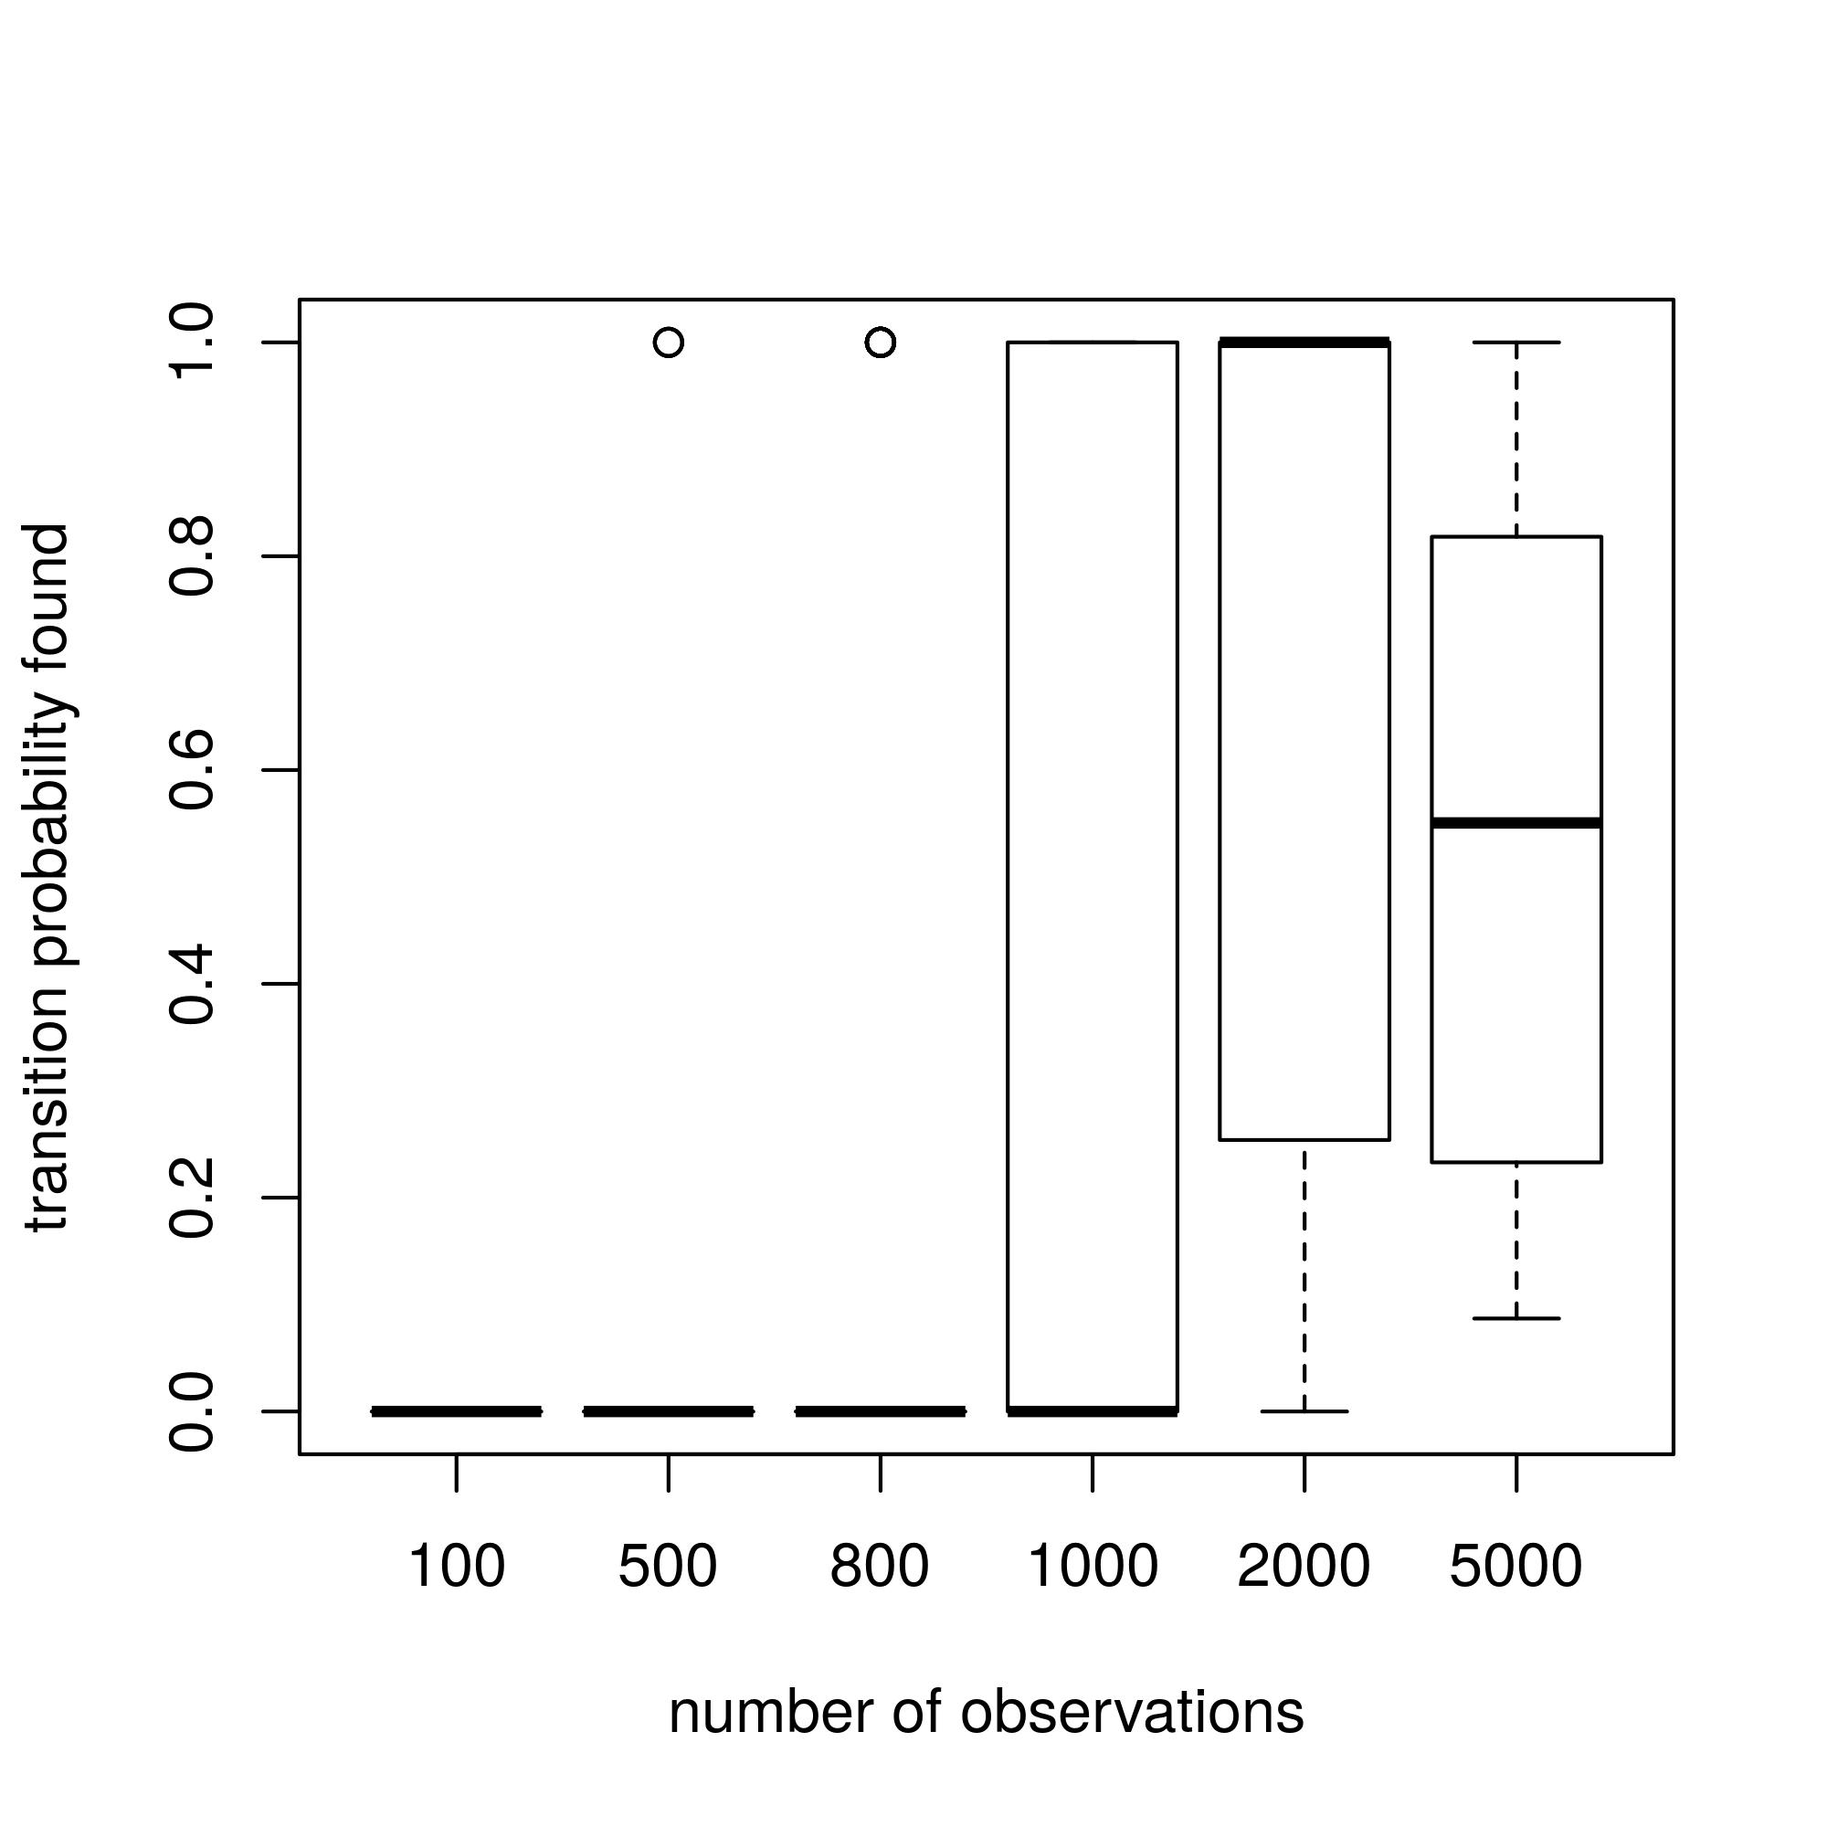
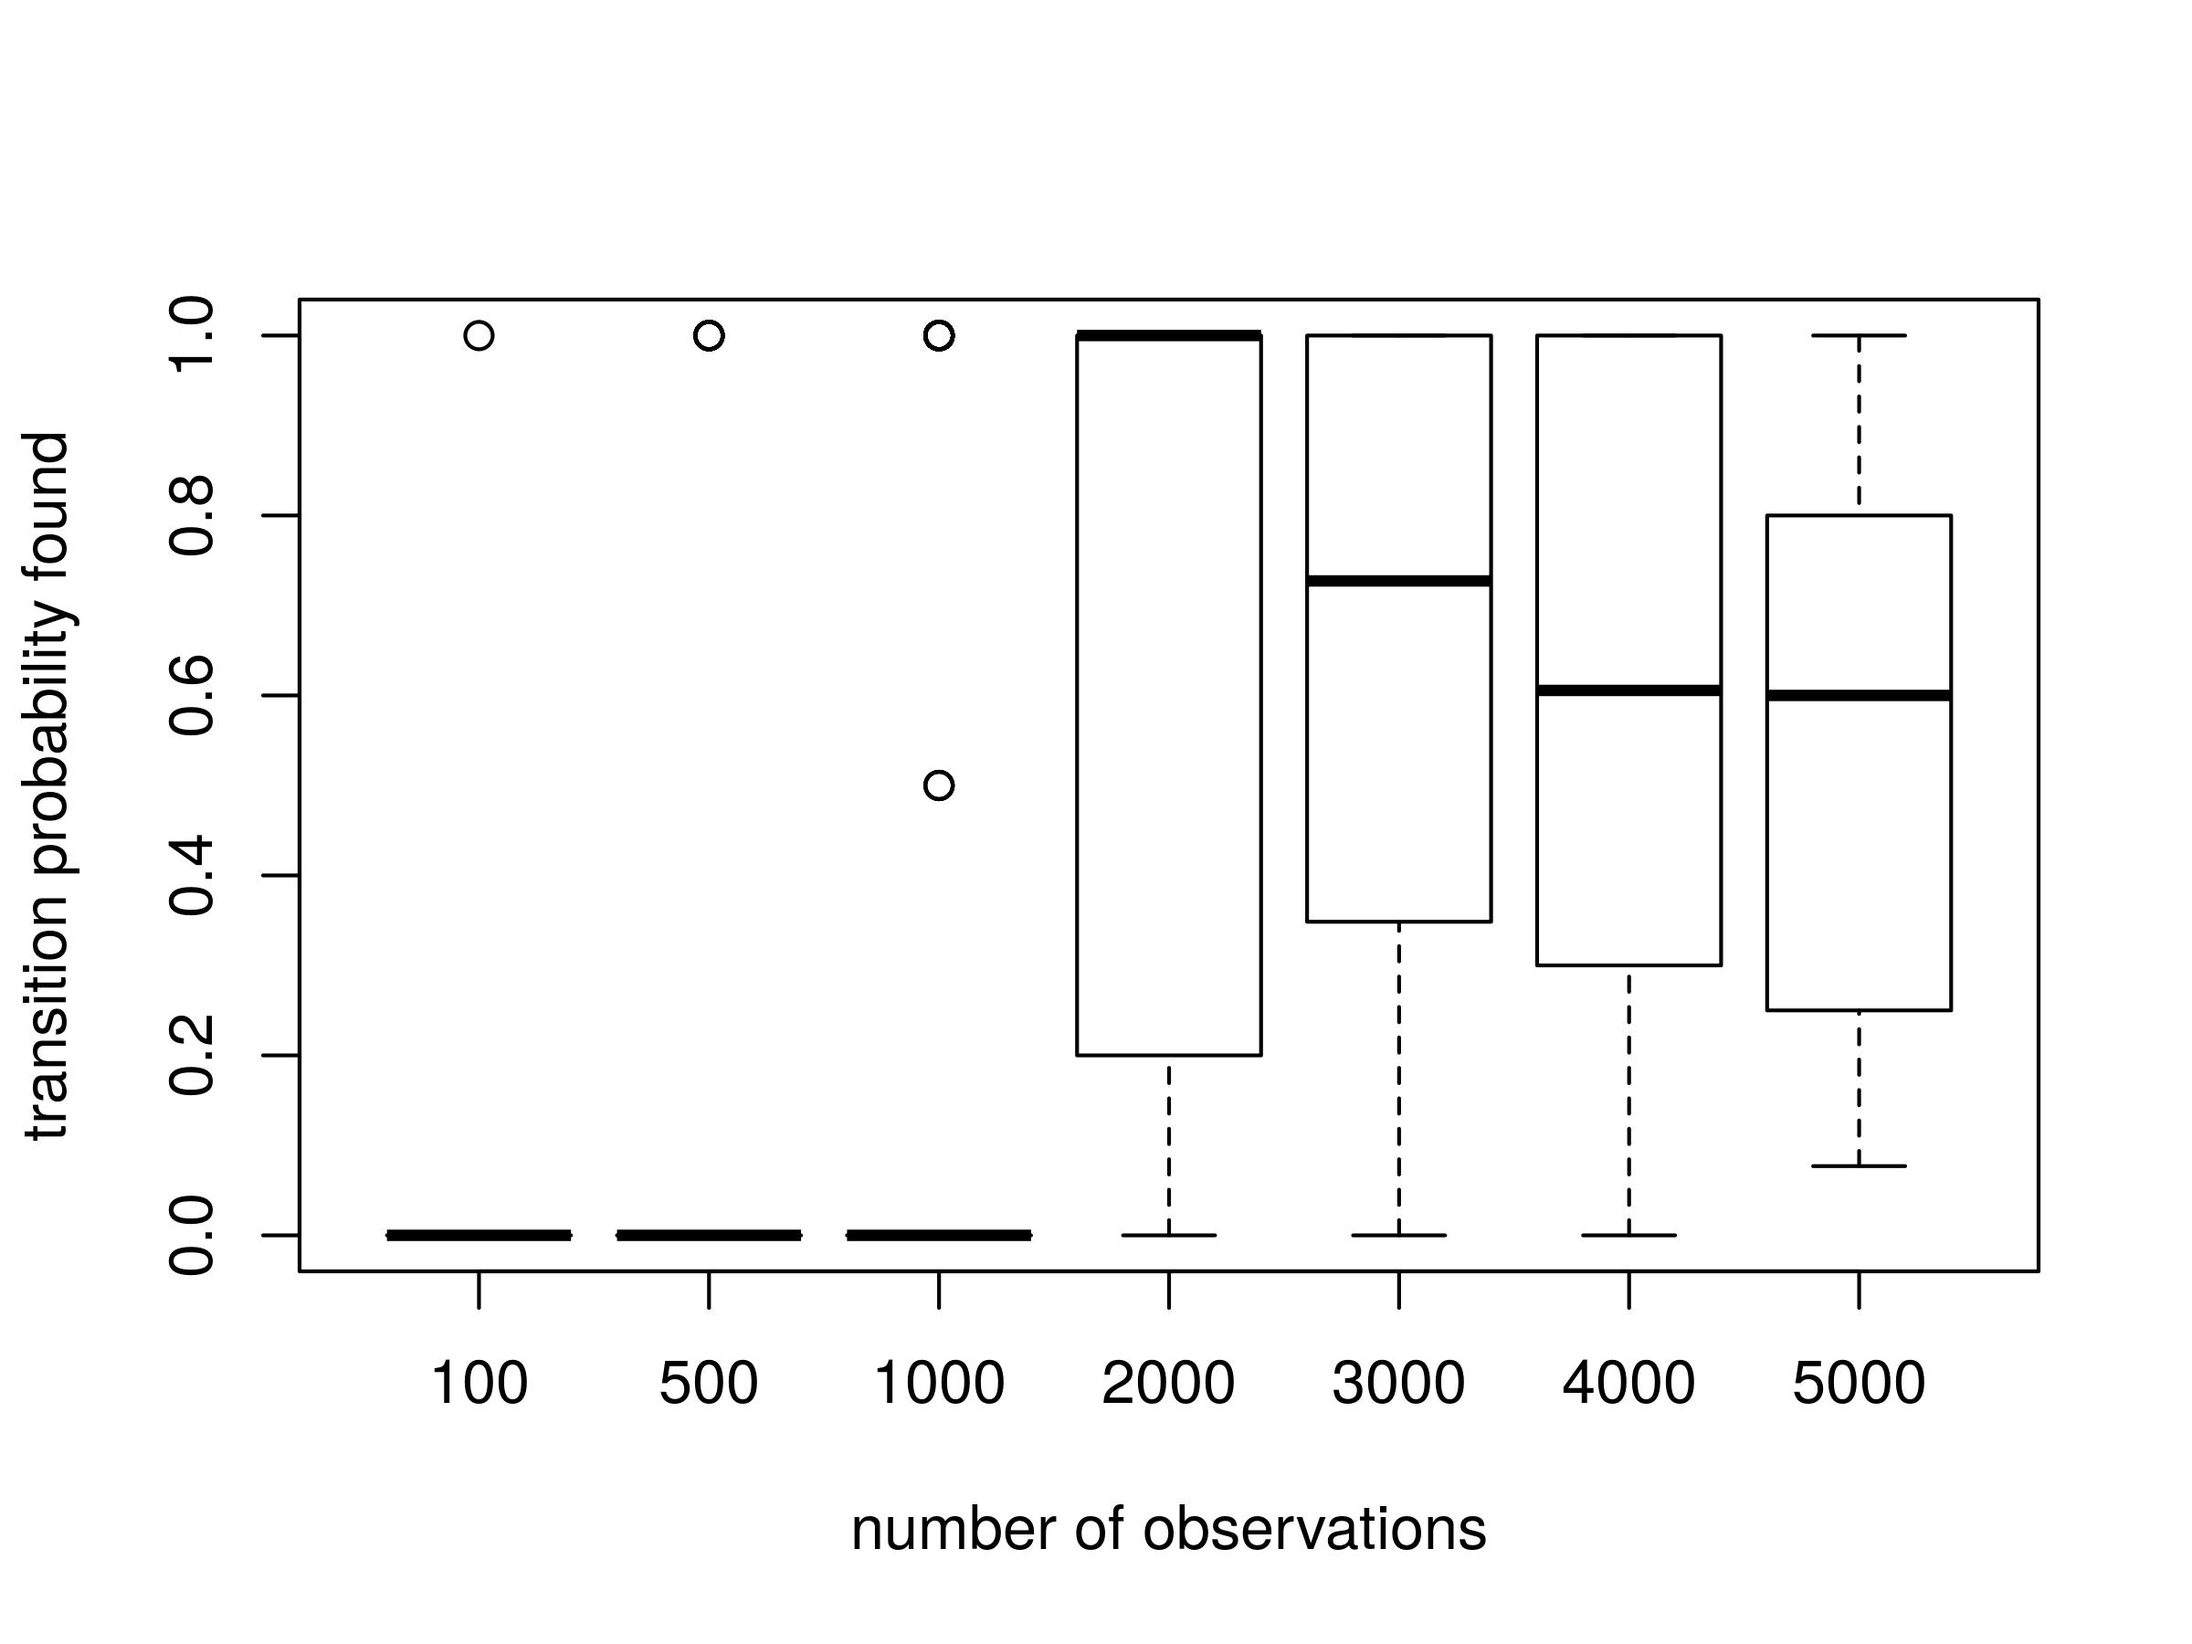
mode img

diff --git a/417/term_project/417course_project.html b/417/term_project/417course_project.html
@@ -6,7 +6,7 @@
 		</TITLE>
 		<style>
 		body {
-			margin: 5% 25%;
+			margin: 5% 20%;
 			font-size: 16pt;
 		}
 		p.abstract {
@@ -29,17 +29,16 @@
 		td{
 			min-width: 100px;
 		}
+		img.small{
+			width:38%;
+			height:38%;
+			margin-right:-6%;
+			float:right;
+		}
 		</style>
 		<head>
 		<script type="text/x-mathjax-config">
 		  MathJax.Hub.Config({tex2jax: {inlineMath: [['$','$'], ['\\(','\\)']]}});
-		  // MathJax.Hub.Register.StartupHook("AsciiMath Jax Config",function () {
-		  //   var AM = MathJax.InputJax.AsciiMath.AM;
-		  //   AM.symbols.push(
-		  //     {input:"mathbi", tag:"mstyle", atname:"mathvariant", atval:"bold-italic",
-		  //      output:"mathbi", tex:null, ttype:AM.TOKEN.UNARY}
-		  //   );
-		  // });
 		  MathJax.Hub.Config({ TeX: { equationNumbers: {autoNumber: "AMS"} } });
 		</script>
 		<script type="text/javascript"
@@ -92,11 +91,11 @@
 </ol>
 
 <a name="1"></a><h2>Introduction</h2>
-<p>To track objects in an environmnet partially monitored by cameras, an intelligent surveillance system need to know how to deal with targets transiting through the blind regions between two spatially adjacent cameras. Such system would be able to continuously track targets and to generate complete target activity records. </p>
+<p>In an environmnet partially monitored by cameras, an intelligent surveillance system may  benefit itself by knowing how to track targets transiting through the blind regions between two spatially adjacent cameras. Such system may allow continuous tracking of targets and generation of complete activity records. </p>
 
-<p>Past research has been done on single camera tracking and matching tracks in overlapping camera views. Some methods have been proposed to track single object through multiple camera views. Notably, Javed et al suggest to correspond the individial tracks of a target using feature matching by maximizing the posterior probability of the spatio-temporal and color apparance of the target. <a href="#r2">[2]</a> However, color is not guaranteed to be always reliable to match targets across multiple cameras.</p>
+<p>Makis et al at Kingston University have put a considable effort on solving single camera tracking and matching tracks in overlapping camera views. Meanwhile, some methods have been proposed by other researchsers to track single object through multiple camera views. Notably, Javed et al suggest to correspond the individial tracks of a target using feature matching by maximizing the posterior probability of the spatio-temporal and color apparance of the target. <a href="#r2">[2]</a> However, color is not guaranteed to be always reliable to match targets across multiple cameras.</p>
 
-<p> An alternative approach is to find a model of the environment and of the camera connectivity, enabling the system to predict the bahavior its targets. This allows one camera to "handover" the track to the next camera as the target move across the two, and thus avoids the need of establishing any correspondence. This model can carry spacial (topology) and temporal (time taken for targets to move between views) information of the network.
+<p> An alternative approach is to learn and build a model of the environment and of the camera connectivity, enabling the system to predict the bahavior its targets. This allows one camera to "handover" the track to the next camera as the target move across the two, and thus avoids the need of establishing any correspondence. This model can carry spacial (topology) and temporal (time taken for targets to move between views) information of the network.
 </p>
 
 <p>The topology of the camera can be determined by using calibrated cameras, whose transformation function of pixel coordinates into 3D coordinates is already defined. If the coordinate system in which calibration is done is common to all the cameras, a geometric analysis of each camera views would then allows spatial adjacency to be established. However, in a large network of cameras, it would be preferable if the system can calibrate itself automatically. Furthermore, a common coordinate system might not be necessary since establishing spatial adjacency requires simply the knowledge of the cameras position relative to each other.</p> 
@@ -109,7 +108,7 @@
 <p>Each camera view has a set of zones describing where targets enter or leave. These entry/exit zones can be represented as nodes in a network. Each edge between two nodes denote an transition which is either visibile or invisible to the cameras. Figure 1 shows an exmples of such network with two zones. </p> 
 
 <figure>
-	<img src="graphmodel.png" alt="Tempo-topographical model">
+	<img src="graphmodel.png" alt="< Picture unable to loaded :( >">
 	<figcaption><b>Figure 1</b> The network showing entry zone $i$ and exit zone $j$.</figcaption>
 </figure> 
 
@@ -192,60 +191,43 @@ However, if the most popular transition time is strictly negative, the following
 <a name="41"></a><h3>Design</h3>
 <p>We construct a compter simulated environment with two cameras. For simplicity, the entry/exit zones, their probability distribution and parameters are fixed, and all targets start from one zone and move to the others in a random walk fashion.</p>
 <figure>
-	<img src="exp1.png" alt="Computer simulated setting">
+	<img src="exp1.png" alt="< Picture unable to loaded :( >">
 	<figcaption><b>Figure 2</b> The simulated setting showing the viewfield of the two cameras and their entry/exit zones. </figcaption>
 </figure>
-<p>During the simulation, targets are generated with a random entering time and a position sampled from the dirtibution at zone 1. Then, they move to the next according to the transition probabilities and a speed drawn from a fixed distribution. In the experiment, $\alpha_{12}$ is set to be much larger than $\alpha_{13}$, and result are gathered to estimate the chance for Network calibration to find link 3-4 after observing a sample size of 100, 500, 800, 1000, 2000 and 5000 targets.</p> 
+<p>During the simulation, targets are generated with a random entering time and a position sampled from the dirtibution at zone 1. Then, they move to the next according to the transition probabilities and a speed drawn from a fixed distribution. In the experiment, $\alpha_{12}$ is set to be much larger than $\alpha_{13}$, and result are gathered to estimate the chance for Network calibration to find link 3-4 after observing a sample size of 100, 500, 1000, 2000, 3000, 4000 and 5000 targets.</p> 
 <p>Since the generation of signals is not ordered by time, we do not run Network Calibration at the same time as we gather data, unlike how it was originally designed.</p>
 
 <a name="42"></a><h3>Result</h3>
-We fixed the transition probabilities $\alpha_{12} = 0.99$, $\alpha_{13} = 0.01$ and $\alpha_{34} = 1.0$, and the distance between zone 1 and 3 very small compared to the distance between the other zones. We run the simuation 100 times for each sample size. For each simulation, we gather the sam amount of data to learn the entry/exit zones.  
+We fixed the transition probabilities $\alpha_{12} = 0.99$, $\alpha_{13} = 0.01$ and $\alpha_{34} = 1.0$, and the distance between zone 1 and 3 very small compared to the distance between the other zones. We run the simuation 300 times for each sample size. For each simulation, we gather the sam amount of data to learn the entry/exit zones.  
 <figure>
-	<img src="exp1-signalVSnum.jpeg" alt="Number of observation v.s. detected pairs of signals at link 1-3", style="width:70%; height:70%;">
+	<img src="exp1-signalVSnum.jpeg" alt="< Picture unable to loaded :( >", style="width:70%; height:70%;">
 	<figcaption><b>Figure 3</b> Number of observation v.s. detected pairs of signals at link 1-3, showing that the chance of detecting such signals is higher as there are more observations. The tickness of the bars represents the amount of transition probabilities found for link 1-3. </figcaption>
 </figure>
 
 <figure>
-	<img src="exp1-timeVSnum.jpeg" alt="Number of observation v.s. found transition time", style="width:70%; height:70%;">
+	<img src="exp1-timeVSnum.jpeg" alt="< Picture unable to loaded :( >", style="width:70%; height:70%;">
 	<figcaption><b>Figure 3</b> Number of observation v.s. found transition times at link 1-3, showing that as the number of sample increases, more albeit transition times are produced. </figcaption>
 </figure>
 
 <figure>
-	<img src="exp1-probVSnum.jpeg" alt="Number of observation v.s. found transition probability", style="width:70%; height:70%;">
-	<figcaption><b>Figure 4</b> Number of observation v.s. found transition probabilities at link 1-3, showing that at size 5000, the system is sure that the probability of a target transiting from zone 1 to 3 is non-zero. </figcaption>
+	<img src="exp1-probVSnum.jpeg" alt="< Picture unable to loaded :( >", style="width:70%; height:70%;">
+	<figcaption><b>Figure 4</b> Number of observation v.s. found transition probabilities at link 1-3, showing that when the sample size is too large, the system is likely to become more uncertain about the behavor of the targets. </figcaption>
 </figure>
 
-
-<!-- <center><table>
-	<caption><b>Table 1</b> True Links</caption>
-	<tr>
-		<td><b>Link</b></td><td>1-2</td><td>1-3</td><td>3-4</td><td>4-5</td>
-	</tr><tr>
-		<td>$\boldsymbol\alpha_{\boldsymbol i\boldsymbol j}$</td><td>0.99</td><td>0.01</td><td>1.0</td><td>1.0</td>
-	</tr>
-</table></center>
-
-<center><table>
-	<caption><b>Table 2</b> Found Links</caption>
-	<tr>
-		<td>100 samples</td><td>500 samples</td><td></td><td></td><td></td>
-	</tr><tr>
-		<td>
-			<table>
-				<caption>Link 1-2</caption>
-				<tr><td>$\boldsymbol\tau$</td><td>$\boldsymbol\alpha_{\boldsymbol i\boldsymbol j}(\boldsymbol\tau)$</td></tr>
-				<tr><td>3.0</td><td>0.119691</td></tr>
-				<tr><td>4.0</td><td>0.163449</td></tr>
-				<tr><td>5.0</td><td>0.217503</td></tr>
-				<tr><td>6.0</td><td>0.223938</td></tr>
-				<tr><td>7.0</td><td>0.153153</td></tr>
-				<tr><td>8.0</td><td>0.122265</td></tr>
-			</table>
-		</td><td></td><td></td><td></td><td></td>
-	</tr>
-</table></center> -->
-
-
+<div style="display:block;">
+<figure>
+	<!-- 
+	<img src="exp100-probVStime.jpeg" class="hidden" alt="< Picture unable to loaded :( >">
+	<img src="exp500-probVStime.jpeg" class="hidden" alt="< Picture unable to loaded :( >"> 
+	<img src="exp3000-probVStime.jpeg" class="small" alt="< Picture unable to loaded :( >"> 
+	<img src="exp4000-probVStime.jpeg" class="small" alt="< Picture unable to loaded :( >">
+	-->
+	<img src="exp5000-probVStime.jpeg" class="small" alt="< Picture unable to loaded :( >">
+	<img src="exp2000-probVStime.jpeg" class="small" alt="< Picture unable to loaded :( >">
+	<img src="exp1000-probVStime.jpeg" class="small" alt="< Picture unable to loaded :( >">
+	<figcaption><b>Figure 4</b> Number of observation v.s. found transition probabilities at link 1-3, showing that when the sample size is too large, the system is likely to become more uncertain about the behavor of the targets. </figcaption>
+</figure>
+</div>
 
 <a href='#top'>[top]</a>
 

diff --git a/417/term_project/map.py b/417/term_project/map.py
@@ -152,11 +152,11 @@ def findLink(link, cov, tran):
 	
 if __name__ == "__main__":
 	result = {}
-	for n in [100, 500, 800, 1000, 2000, 5000]:
+	for n in [100, 500, 1000, 2000, 3000, 4000, 5000]:
 	# for n in [5000]:
 		print n
 		result[n] = []
-		for i in range(100):
+		for i in range(300):
 		# for i in range(1):
 			print "-",i
 			cov, tran = getProbs(n,n)
@@ -164,7 +164,7 @@ if __name__ == "__main__":
 			# saveToCSV(tran, "data_%d"%n)
 		#getProbs('data_%d'%n, 'zone_%d'%n, n, 'target_%d'%n, n)
 	# json.dump(result, open("result.json", 'w'))
-	with open('result.csv', 'wb') as csvfile:
+	with open('result300s.csv', 'wb') as csvfile:
 		spamwriter = csv.writer(csvfile, delimiter=',',
 			 quotechar='|', quoting=csv.QUOTE_MINIMAL)
 		spamwriter.writerow(["NUM", "OBSERVED", "TIME","PROB"])
